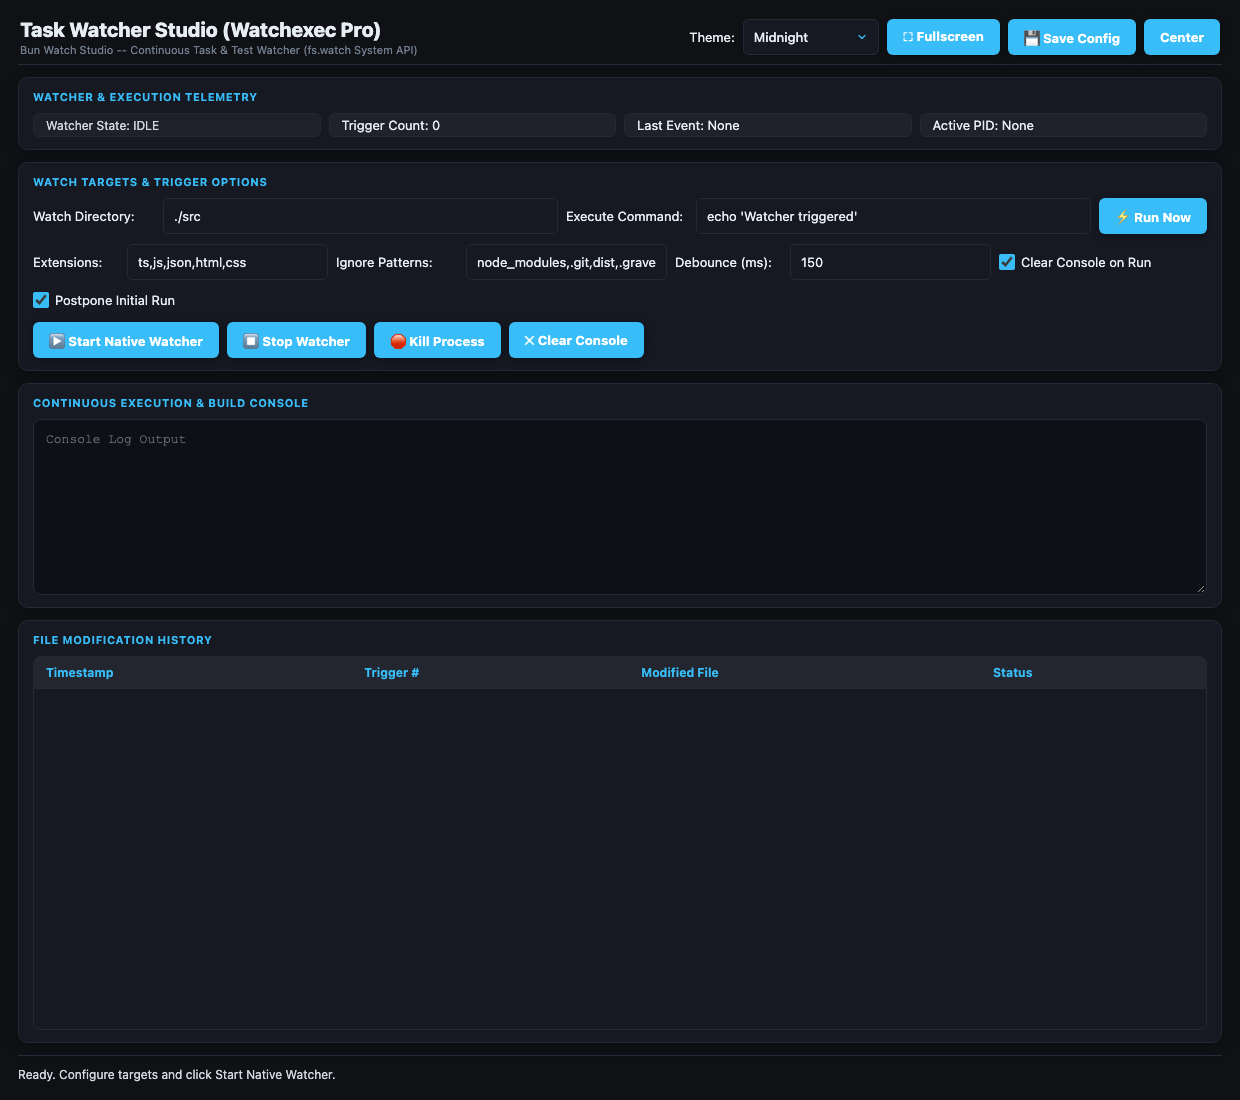
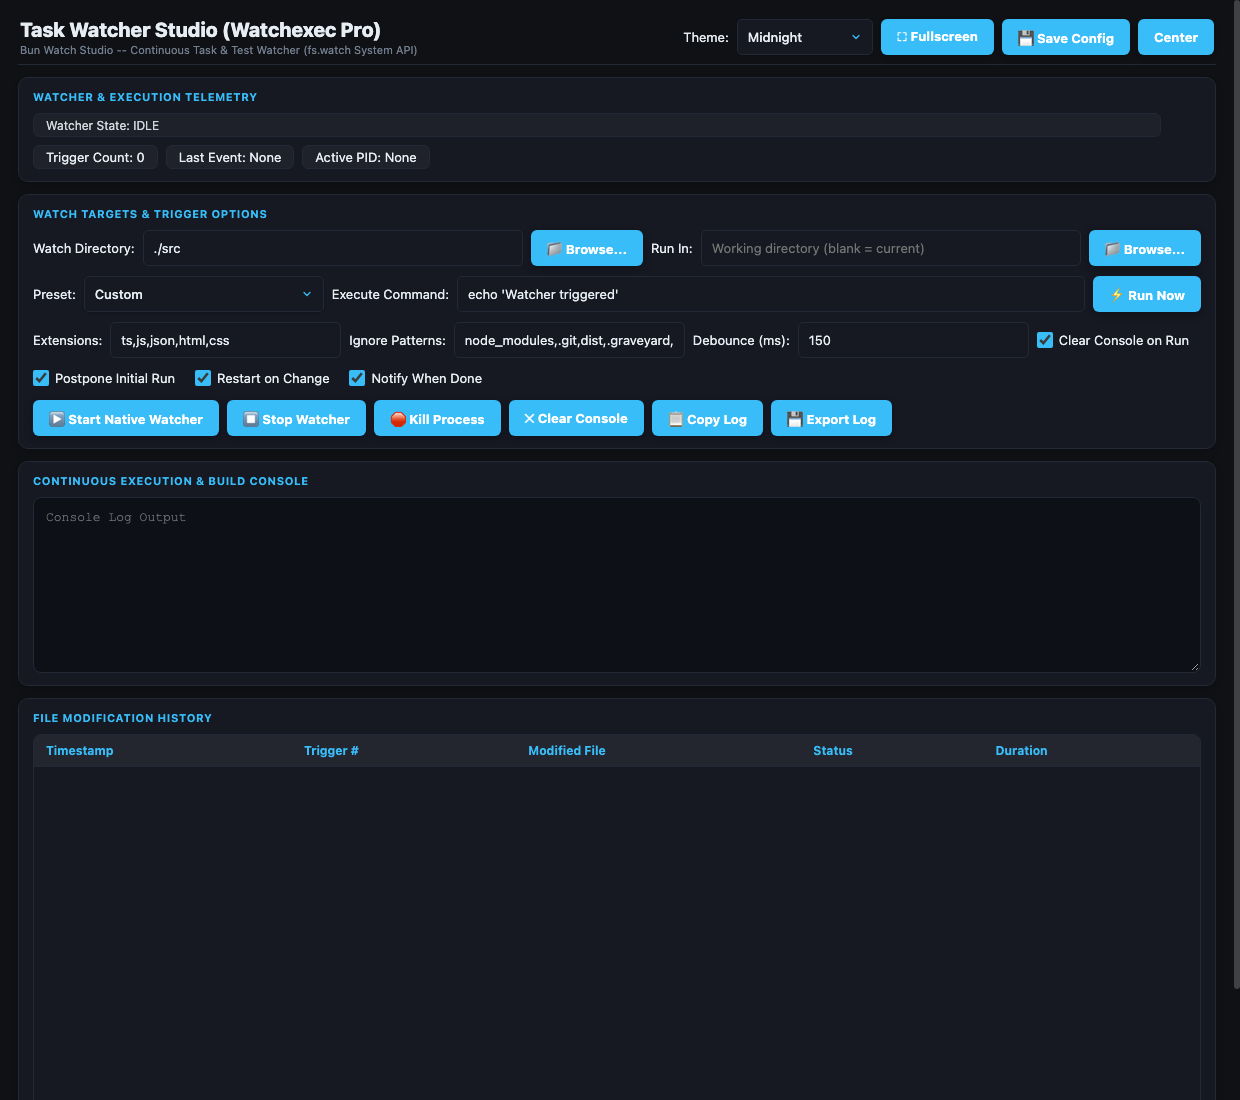
Watcher Studio: folder browse, presets, live streaming, durations, log export; dedupe change events; refresh screenshots & guides

diff --git a/applications/watchexec_studio.ts b/applications/watchexec_studio.ts
@@ -6,7 +6,7 @@ import {
 } from "../src/features/watchexec/watchexecDoers.ts";
 import type { WatchexecOptions } from "../src/features/watchexec/watchexecTypes.ts";
 import type { Subprocess } from "bun";
-import { watch } from "node:fs";
+import { watch, existsSync, writeFileSync } from "node:fs";
 import * as path from "node:path";
 
 export function createWatchexecStudio(options: { fullscreen?: boolean; theme?: string } = {}): SimpleWindow {
@@ -26,6 +26,19 @@ export function createWatchexecStudio(options: { fullscreen?: boolean; theme?: s
   let activeProcess: Subprocess | null = null;
   let triggerCount = 0;
   const historyRows: string[][] = [];
+  let logBuffer = "";
+
+  /** Command presets: picking one fills the "Execute Command" box (still editable afterwards). */
+  const PRESETS: Record<string, string> = {
+    "Custom": "",
+    "bun test": "bun test",
+    "bun run (index.ts)": "bun run index.ts",
+    "Type-check (tsc)": "bunx tsc --noEmit",
+    "Lint (eslint)": "bunx eslint .",
+    "Build (bun build)": "bun build ./index.ts --outdir ./dist",
+    "npm test": "npm test",
+    "Echo (demo)": "echo 'Watcher triggered'",
+  };
 
   // -----------------------------------------------------------------------------------------------
   // 1. Header Toolbar
@@ -58,6 +71,15 @@ export function createWatchexecStudio(options: { fullscreen?: boolean; theme?: s
   win.beginRow();
   win.addLabel("lbl_path", "Watch Directory:");
   win.addInput("txt_watch_path", "./src", "Path to watch...", { width: 300 });
+  win.addButton("btn_browse_path", "📁 Browse...", { width: 110 });
+  win.addLabel("lbl_cwd", "Run In:");
+  win.addInput("txt_cwd", "", "Working directory (blank = current)", { width: 260 });
+  win.addButton("btn_browse_cwd", "📁 Browse...", { width: 110 });
+  win.endRow();
+
+  win.beginRow();
+  win.addLabel("lbl_preset", "Preset:");
+  win.addDropdown("dd_preset", Object.keys(PRESETS), "Custom");
   win.addLabel("lbl_cmd", "Execute Command:");
   win.addInput("txt_exec_cmd", "echo 'Watcher triggered'", "Command to run on file change...", { width: 340 });
   win.addButton("btn_trigger_now", "⚡ Run Now", { width: 110 });
@@ -72,6 +94,8 @@ export function createWatchexecStudio(options: { fullscreen?: boolean; theme?: s
   win.addInput("txt_debounce", "150", "e.g. 100, 200", { width: 80 });
   win.addCheckbox("chk_clear", "Clear Console on Run", true);
   win.addCheckbox("chk_postpone", "Postpone Initial Run", true);
+  win.addCheckbox("chk_restart", "Restart on Change", true);
+  win.addCheckbox("chk_notify", "Notify When Done", true);
   win.endRow();
 
   win.beginRow();
@@ -79,6 +103,8 @@ export function createWatchexecStudio(options: { fullscreen?: boolean; theme?: s
   win.addButton("btn_stop_watch", "⏹ Stop Watcher", { width: 140 });
   win.addButton("btn_kill_run", "🛑 Kill Process", { width: 130 });
   win.addButton("btn_clear_console", "✕ Clear Console", { width: 130 });
+  win.addButton("btn_copy_log", "📋 Copy Log", { width: 120 });
+  win.addButton("btn_export_log", "💾 Export Log", { width: 130 });
   win.endRow();
   win.endGroupBox();
 
@@ -93,8 +119,9 @@ export function createWatchexecStudio(options: { fullscreen?: boolean; theme?: s
   // 5. Trigger History Table
   // -----------------------------------------------------------------------------------------------
   win.beginGroupBox("File Modification History");
-  const tableHeaders = ["Timestamp", "Trigger #", "Modified File", "Status"];
+  const tableHeaders = ["Timestamp", "Trigger #", "Modified File", "Status", "Duration"];
   win.addTable("tbl_history", tableHeaders, [], { height: 160 });
+  win.addButton("btn_clear_history", "🗑 Clear History", { width: 140 });
   win.endGroupBox();
 
   // -----------------------------------------------------------------------------------------------
@@ -107,6 +134,25 @@ export function createWatchexecStudio(options: { fullscreen?: boolean; theme?: s
   // -----------------------------------------------------------------------------------------------
   // Watcher Engine Logic
   // -----------------------------------------------------------------------------------------------
+  /** Append to the console and keep a copy for Copy/Export. */
+  const log = (text: string) => {
+    logBuffer += text;
+    if (logBuffer.length > 2_000_000) logBuffer = logBuffer.slice(-1_000_000);
+    win.appendConsole("watch_console", text);
+  };
+
+  /** Stream a process pipe into the console as output arrives (live, not only at exit). */
+  const pump = async (stream: ReadableStream<Uint8Array> | null | undefined) => {
+    if (!stream) return;
+    const reader = stream.getReader();
+    const dec = new TextDecoder();
+    while (true) {
+      const { done, value } = await reader.read();
+      if (done) break;
+      if (win.isRunning()) log(dec.decode(value, { stream: true }));
+    }
+  };
+
   const executeCommand = async (triggeredFile?: string) => {
     const cmdStr = win.getValue("txt_exec_cmd")?.trim();
     if (!cmdStr) {
@@ -114,8 +160,24 @@ export function createWatchexecStudio(options: { fullscreen?: boolean; theme?: s
       return;
     }
 
+    // Optionally let a running command finish instead of restarting it
+    if (activeProcess && !win.getBool("chk_restart")) {
+      log(`\n[watchexec] Change ignored: previous run still in progress ("Restart on Change" is off).\n`);
+      return;
+    }
+
+    // Resolve and validate the working directory
+    const cwdInput = win.getValue("txt_cwd")?.trim();
+    const cwd = cwdInput ? path.resolve(cwdInput) : process.cwd();
+    if (!existsSync(cwd)) {
+      win.setValue("lbl_status_bar", `❌ Working directory not found: ${cwd}`);
+      win.toast(`Working directory not found: ${cwd}`, 4000, "error");
+      return;
+    }
+
     if (win.getBool("chk_clear")) {
       win.clearConsole("watch_console");
+      logBuffer = "";
     }
 
     // Terminate existing process if active
@@ -125,13 +187,15 @@ export function createWatchexecStudio(options: { fullscreen?: boolean; theme?: s
     }
 
     triggerCount++;
+    const startedAt = Date.now();
     const timeStr = new Date().toLocaleTimeString();
     win.setValue("lbl_metric_triggers", `Trigger Count: ${triggerCount}`);
     win.setValue("lbl_metric_last_file", triggeredFile ? `Last Event: ${path.basename(triggeredFile)}` : "Last Event: Manual Run");
 
-    win.appendConsole("watch_console", `\n[${timeStr}] ⚡ [watchexec] Running: ${cmdStr}\n`);
+    log(`\n[${timeStr}] ⚡ [watchexec] Running: ${cmdStr}\n`);
+    log(`[watchexec] Working directory: ${cwd}\n`);
     if (triggeredFile) {
-      win.appendConsole("watch_console", `[watchexec] Triggered by: ${triggeredFile}\n`);
+      log(`[watchexec] Triggered by: ${triggeredFile}\n`);
     }
 
     const historyRow = [
@@ -139,6 +203,7 @@ export function createWatchexecStudio(options: { fullscreen?: boolean; theme?: s
       String(triggerCount),
       triggeredFile ? path.basename(triggeredFile) : "Manual",
       "RUNNING",
+      "…",
     ];
     historyRows.unshift(historyRow);
     win.setTableData("tbl_history", historyRows.slice(0, 50));
@@ -148,7 +213,7 @@ export function createWatchexecStudio(options: { fullscreen?: boolean; theme?: s
       const env = buildWatchexecEnv(triggeredFile, watchPath);
 
       const proc = Bun.spawn(["/bin/sh", "-c", cmdStr], {
-        cwd: process.cwd(),
+        cwd,
         env: { ...process.env, ...env },
         stdout: "pipe",
         stderr: "pipe",
@@ -156,29 +221,29 @@ export function createWatchexecStudio(options: { fullscreen?: boolean; theme?: s
       activeProcess = proc;
       win.setValue("lbl_metric_pid", `Active PID: ${proc.pid}`);
 
-      const [stdoutStr, stderrStr, exitCode] = await Promise.all([
-        new Response(proc.stdout).text(),
-        new Response(proc.stderr).text(),
-        proc.exited,
-      ]);
+      const [, , exitCode] = await Promise.all([pump(proc.stdout), pump(proc.stderr), proc.exited]);
       if (!win.isRunning()) {
         return;
       }
-      if (stdoutStr) win.appendConsole("watch_console", stdoutStr);
-      if (stderrStr) win.appendConsole("watch_console", stderrStr);
 
-      win.appendConsole("watch_console", `\n[watchexec] Process exited with status ${exitCode}\n`);
+      const secs = ((Date.now() - startedAt) / 1000).toFixed(2);
+      log(`\n[watchexec] Process exited with status ${exitCode} (${secs}s)\n`);
       if (activeProcess === proc) {
         activeProcess = null;
         win.setValue("lbl_metric_pid", "Active PID: None");
-        win.setValue("lbl_status_bar", `✓ Process exited with code ${exitCode}.`);
+        win.setValue("lbl_status_bar", `${exitCode === 0 ? "✓" : "✗"} Process exited with code ${exitCode} in ${secs}s.`);
         historyRow[3] = exitCode === 0 ? "SUCCESS" : `FAILED (${exitCode})`;
+        historyRow[4] = `${secs}s`;
+        if (win.getBool("chk_notify")) {
+          win.toast(exitCode === 0 ? `Run #${triggerCount} succeeded (${secs}s)` : `Run #${triggerCount} failed (exit ${exitCode})`, 3000, exitCode === 0 ? "success" : "error");
+        }
       } else {
         historyRow[3] = "CANCELLED";
+        historyRow[4] = `${secs}s`;
       }
       win.setTableData("tbl_history", historyRows.slice(0, 50));
     } catch (err: any) {
-      win.appendConsole("watch_console", `\n[watchexec ERROR] ${err.message}\n`);
+      log(`\n[watchexec ERROR] ${err.message}\n`);
       win.setValue("lbl_status_bar", `❌ Execution failed: ${err.message}`);
     }
   };
@@ -190,6 +255,11 @@ export function createWatchexecStudio(options: { fullscreen?: boolean; theme?: s
     }
 
     const watchPath = win.getValue("txt_watch_path")?.trim() || "./src";
+    if (!existsSync(watchPath)) {
+      win.setValue("lbl_status_bar", `❌ Watch directory not found: ${watchPath}`);
+      win.toast(`Watch directory not found: ${watchPath}`, 4000, "error");
+      return;
+    }
     const extsStr = win.getValue("txt_exts")?.trim();
     const extensions = extsStr ? extsStr.split(",").map((s: string) => s.trim().replace(/^\./, "")).filter(Boolean) : undefined;
     const ignoreStr = win.getValue("txt_ignore")?.trim();
@@ -256,6 +326,39 @@ export function createWatchexecStudio(options: { fullscreen?: boolean; theme?: s
   win.on("btn_start_watch", "click", () => startWatcher());
   win.on("btn_stop_watch", "click", () => stopWatcher());
   win.on("btn_trigger_now", "click", () => executeCommand());
+  win.on("btn_browse_path", "click", () => {
+    win.openFolder({ title: "Select directory to watch" }, (p) => {
+      if (p) win.setValue("txt_watch_path", p);
+    });
+  });
+  win.on("btn_browse_cwd", "click", () => {
+    win.openFolder({ title: "Select working directory for the command" }, (p) => {
+      if (p) win.setValue("txt_cwd", p);
+    });
+  });
+  win.onChange("dd_preset", (w, val) => {
+    const cmd = PRESETS[String(val)];
+    if (cmd) w.setValue("txt_exec_cmd", cmd);
+  });
+  win.on("btn_copy_log", "click", () => {
+    win.copyToClipboard(logBuffer);
+    win.toast("Console log copied to clipboard.", 2000, "success");
+  });
+  win.on("btn_export_log", "click", () => {
+    win.saveFile({ title: "Export console log", defaultName: "watcher-log.txt", filter: "txt,log" }, (p) => {
+      if (!p) return;
+      try {
+        writeFileSync(p, logBuffer);
+        win.toast(`Log saved to ${p}`, 3000, "success");
+      } catch (e: any) {
+        win.toast(`Could not save log: ${e.message}`, 4000, "error");
+      }
+    });
+  });
+  win.on("btn_clear_history", "click", () => {
+    historyRows.length = 0;
+    win.setTableData("tbl_history", []);
+  });
 
   win.on("btn_kill_run", "click", () => {
     if (activeProcess) {

diff --git a/scripts/guides_generator/core_workstations.ts b/scripts/guides_generator/core_workstations.ts
@@ -398,6 +398,13 @@ bun run cli:watcher -d ./ -x "ts,js,json" -e "bun run build"
 - **File Extensions Filter**: Comma-separated list of extensions to monitor (e.g., \`ts,tsx,js,json,css,html\`).
 - **Ignore Patterns**: Comma-separated list of paths or subdirectories to ignore (e.g. \`node_modules,.git,dist,.temp,build\`).
 - **Debounce Delay (ms)**: Debounce buffer window (default \`300ms\`) to coalesce rapid multi-file IDE saves into a single run.
+- **📁 Browse... (Watch Directory / Run In)**: Opens a folder picker so you never have to type a path. **Run In** sets the working directory the command executes in (blank = current directory).
+- **Preset Dropdown**: One-click commands (\`bun test\`, \`tsc --noEmit\`, \`eslint\`, \`bun build\`, \`npm test\`, ...) that fill the Execute Command box; you can still edit it afterwards.
+- **Restart on Change**: When on, a new file change kills the running command and restarts it. When off, the running command finishes and extra changes are logged and ignored.
+- **Notify When Done**: Shows a success or failure toast (with run number and duration) when a run ends.
+- **Copy Log / Export Log**: Copy the console output to the clipboard or save it to a file through a save dialog.
+- **Clear History**: Empties the File Modification History table (which now includes a **Duration** column).
+- **Live Streaming & Validation**: Output streams into the console as it is produced, and a missing watch or working directory shows an error toast instead of failing silently.
 
 ### 2. Execution Control Panel
 - **▶ Start Watching Button**: Starts the native background recursive file watcher.

diff --git a/scripts/guides_generator/cli_replacements.ts b/scripts/guides_generator/cli_replacements.ts
@@ -307,7 +307,12 @@ bun run cli:watchexec -w ./src -e "bun test"
 ## 🧭 Key Capabilities
 - **Debounce Buffer**: Avoids multiple executions when saving multi-file projects.
 - **Extension & Ignore Filters**: Focuses watcher on relevant source files only.
-- **Subprocess Supervision**: Gracefully terminates prior execution before restarting tasks.
+- **Subprocess Supervision**: Gracefully terminates prior execution before restarting tasks (toggle with **Restart on Change**).
+- **Folder Browsers**: 📁 Browse buttons for the **Watch Directory** and the new **Run In** working directory.
+- **Command Presets**: Dropdown of common commands (tests, type-check, lint, build) that fills the command box.
+- **Live Console Streaming**: stdout/stderr appear as they are produced, with **Copy Log** and **Export Log** buttons.
+- **Run History with Duration**: Status and duration per run, a **Clear History** button, and optional success/failure toasts (**Notify When Done**).
+- **Path Validation**: Missing watch or working directories raise a clear error instead of failing silently.
 `);
 
   // 22_tokei_studio.md

diff --git a/src/simplegui.ts b/src/simplegui.ts
@@ -6033,7 +6033,16 @@ export class SimpleWindow {
             if (!boundHandlers.has(changeBind)) {
                 boundHandlers.add(changeBind);
                 try {
+                    let lastSig = "";
+                    let lastAt = 0;
                     this.webview?.bind(changeBind, async (val: any) => {
+                        // A <select>/checkbox fires input + change (+ inline handlers) for one user action;
+                        // collapse identical bursts so user callbacks run once.
+                        const sig = typeof val === "object" ? JSON.stringify(val) : String(val);
+                        const now = Date.now();
+                        if (sig === lastSig && now - lastAt < 120) return;
+                        lastSig = sig;
+                        lastAt = now;
                         if (val !== undefined && val !== null) {
                             this.formValuesStore[cid] = val;
                         }

diff --git a/docs/userguides/03_task_watcher_studio.md b/docs/userguides/03_task_watcher_studio.md
@@ -52,6 +52,13 @@ bun run cli:watcher -d ./ -x "ts,js,json" -e "bun run build"
 - **File Extensions Filter**: Comma-separated list of extensions to monitor (e.g., `ts,tsx,js,json,css,html`).
 - **Ignore Patterns**: Comma-separated list of paths or subdirectories to ignore (e.g. `node_modules,.git,dist,.temp,build`).
 - **Debounce Delay (ms)**: Debounce buffer window (default `300ms`) to coalesce rapid multi-file IDE saves into a single run.
+- **📁 Browse... (Watch Directory / Run In)**: Opens a folder picker so you never have to type a path. **Run In** sets the working directory the command executes in (blank = current directory).
+- **Preset Dropdown**: One-click commands (`bun test`, `tsc --noEmit`, `eslint`, `bun build`, `npm test`, ...) that fill the Execute Command box; you can still edit it afterwards.
+- **Restart on Change**: When on, a new file change kills the running command and restarts it. When off, the running command finishes and extra changes are logged and ignored.
+- **Notify When Done**: Shows a success or failure toast (with run number and duration) when a run ends.
+- **Copy Log / Export Log**: Copy the console output to the clipboard or save it to a file through a save dialog.
+- **Clear History**: Empties the File Modification History table (which now includes a **Duration** column).
+- **Live Streaming & Validation**: Output streams into the console as it is produced, and a missing watch or working directory shows an error toast instead of failing silently.
 
 ### 2. Execution Control Panel
 - **▶ Start Watching Button**: Starts the native background recursive file watcher.

diff --git a/docs/userguides/21_watchexec_studio.md b/docs/userguides/21_watchexec_studio.md
@@ -35,4 +35,9 @@ bun run cli:watchexec -w ./src -e "bun test"
 ## 🧭 Key Capabilities
 - **Debounce Buffer**: Avoids multiple executions when saving multi-file projects.
 - **Extension & Ignore Filters**: Focuses watcher on relevant source files only.
-- **Subprocess Supervision**: Gracefully terminates prior execution before restarting tasks.
+- **Subprocess Supervision**: Gracefully terminates prior execution before restarting tasks (toggle with **Restart on Change**).
+- **Folder Browsers**: 📁 Browse buttons for the **Watch Directory** and the new **Run In** working directory.
+- **Command Presets**: Dropdown of common commands (tests, type-check, lint, build) that fills the command box.
+- **Live Console Streaming**: stdout/stderr appear as they are produced, with **Copy Log** and **Export Log** buttons.
+- **Run History with Duration**: Status and duration per run, a **Clear History** button, and optional success/failure toasts (**Notify When Done**).
+- **Path Validation**: Missing watch or working directories raise a clear error instead of failing silently.
